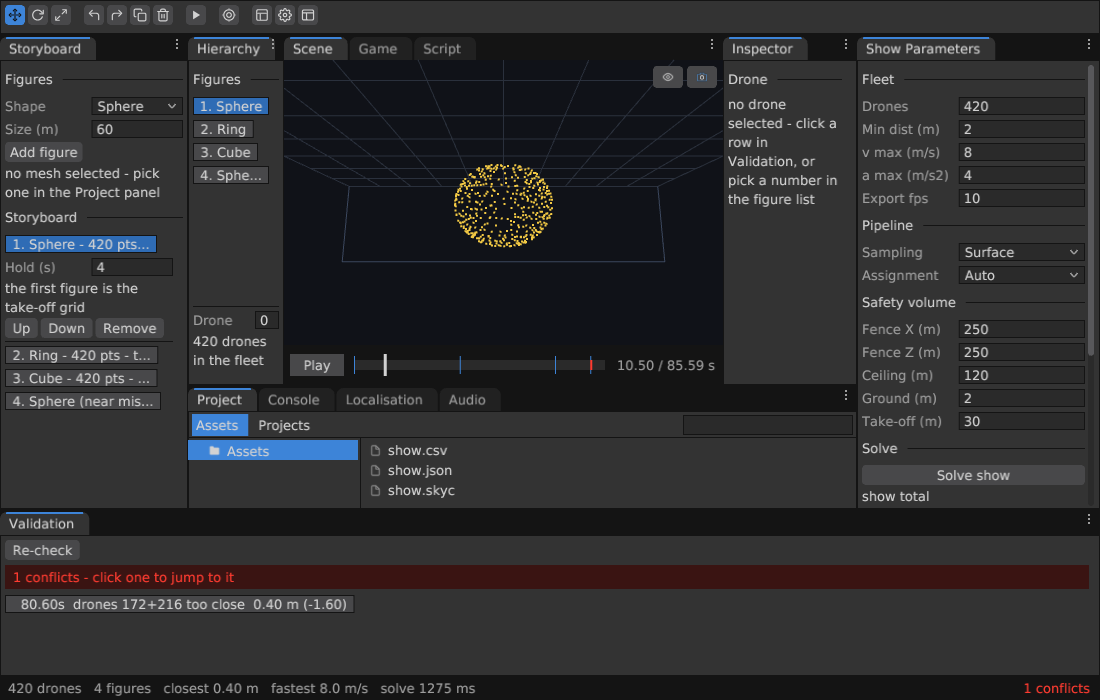
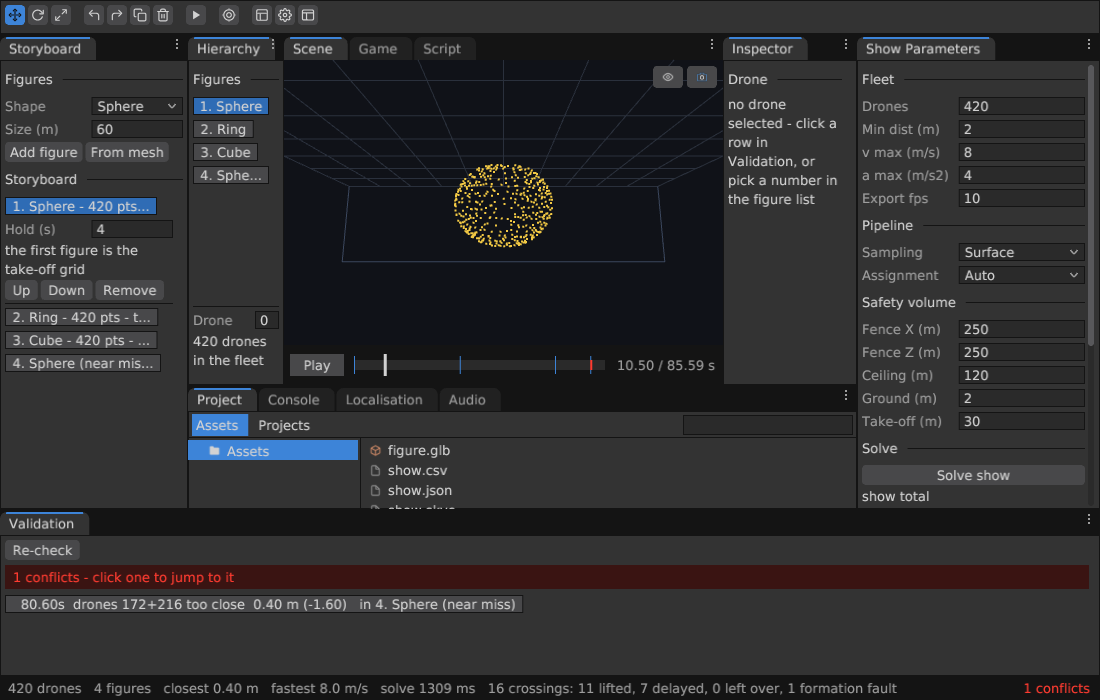
gauntlet: Runde 2 — Score 79/100

diff --git a/tools/droneshow_shot.cpp b/tools/droneshow_shot.cpp
@@ -4,7 +4,13 @@
 // tools/editor_shot.cpp, and it exists for the same reason: a panel that is
 // green in a test and unreadable on screen is still broken.
 //
-//   DAI_SHADER_DIR=shaders ./build/droneshow_shot .gauntlet-shots [W] [H]
+//   DAI_SHADER_DIR=shaders ./build/droneshow_shot .gauntlet-shots [W] [H] [SET]
+//
+// SET names the picture set. Without a dash it is a PREFIX - `narrow-` writes
+// `narrow-03-viewport-conflict.png` - and with a leading dash it is a suffix,
+// which is how the first runs of this tool named their files. Either way the
+// 1600x900 run with no SET owns the plain names, so a reviewer opening
+// `03-viewport-conflict.png` always gets the default window size.
 //
 // The show it builds is a real one: three figures sampled off triangle soup
 // through the ordinary pipeline, solved, validated - plus one figure with a
@@ -21,11 +27,13 @@
 // window.
 
 #include "dai_editor_ui.h"
+#include "dai_gltf.h"
 #include "dai_project.h"
 #include "dai_render.h"
 #include "dai_show.h"
 #include "dai_show_ui.h"
 
+#include <algorithm>
 #include <cmath>
 #include <cstdio>
 #include <cstdlib>
@@ -130,8 +138,15 @@ int main(int argc, char **argv) {
     const uint32_t H = argc > 3 ? (uint32_t)atoi(argv[3]) : 900;
     // A tag in the file names, so the same tool can photograph the same show at
     // a second window size without overwriting the first run. Narrow is where
-    // labels collide, so the narrow run is the one worth keeping.
-    std::string tag = argc > 4 ? argv[4] : "";
+    // labels collide, so the narrow run is the one worth keeping. `narrow-`
+    // goes in front of the name, `-narrow` behind it; the empty set keeps the
+    // plain names.
+    std::string set = argc > 4 ? argv[4] : "";
+    const bool  set_is_suffix = !set.empty() && set[0] == '-';
+    auto shot_path = [&](const char *name) {
+        return set_is_suffix ? outdir + "/" + name + set + ".png"
+                             : outdir + "/" + set + name + ".png";
+    };
 
     // ---- the project ------------------------------------------------------
     // One of each kind, side by side: the droneshow the panels belong to, and
@@ -280,6 +295,93 @@ int main(int argc, char **argv) {
 
     dai_show_ui *show = dai_show_ui_create(sh);
 
+    // ---- the mesh the storyboard samples from -----------------------------
+    // A photograph of a storyboard saying "no mesh selected - pick one in the
+    // Project panel" documents a dead end, not a feature. So the tool does
+    // what an operator does: it imports a real mesh off disk into the project,
+    // where the Project panel below the viewport lists it, and hands the same
+    // triangle soup to the panels. "From selected mesh" is then a button that
+    // works in the state that was photographed.
+    std::vector<float>    mesh_pos;
+    std::vector<uint32_t> mesh_idx;
+    std::string           mesh_asset;                 // the name in the project
+    {
+        const char *src = "assets/test/blender_scene.glb";
+        std::vector<uint8_t> bytes;
+        if (FILE *f = std::fopen(src, "rb")) {
+            std::fseek(f, 0, SEEK_END);
+            long n = std::ftell(f);
+            std::fseek(f, 0, SEEK_SET);
+            if (n > 0) {
+                bytes.resize((size_t)n);
+                if (std::fread(bytes.data(), 1, bytes.size(), f) != bytes.size()) bytes.clear();
+            }
+            std::fclose(f);
+        }
+        dai_mesh_data md[16];
+        uint32_t np = bytes.empty() ? 0u
+                                    : dai_gltf_read_geometry(bytes.data(), bytes.size(), md, 16,
+                                                             err, sizeof(err));
+        uint32_t got = np < 16u ? np : 16u;
+        for (uint32_t p = 0; p < got; ++p) {
+            uint32_t base = (uint32_t)(mesh_pos.size() / 3);
+            for (uint32_t v = 0; v < md[p].vertex_count; ++v) {
+                mesh_pos.push_back(md[p].vertices[v].position.x);
+                mesh_pos.push_back(md[p].vertices[v].position.y);
+                mesh_pos.push_back(md[p].vertices[v].position.z);
+            }
+            for (uint32_t i = 0; i < md[p].index_count; ++i)
+                mesh_idx.push_back(base + md[p].indices[i]);
+        }
+        if (got) dai_gltf_free_geometry(md, got);
+
+        if (!mesh_pos.empty() && !mesh_idx.empty()) {
+            // Into the mesh's own unit box, so `scale` really is "mesh units
+            // to metres" and Size (m) in the panel means what it says whatever
+            // the modeller worked in.
+            float lo[3] = { mesh_pos[0], mesh_pos[1], mesh_pos[2] }, hi[3] = { lo[0], lo[1], lo[2] };
+            for (size_t v = 0; v + 2 < mesh_pos.size(); v += 3)
+                for (int k = 0; k < 3; ++k) {
+                    lo[k] = std::min(lo[k], mesh_pos[v + (size_t)k]);
+                    hi[k] = std::max(hi[k], mesh_pos[v + (size_t)k]);
+                }
+            float ext = std::max(hi[0] - lo[0], std::max(hi[1] - lo[1], hi[2] - lo[2]));
+            float inv = ext > 1e-6f ? 2.0f / ext : 1.0f;
+            for (size_t v = 0; v + 2 < mesh_pos.size(); v += 3)
+                for (int k = 0; k < 3; ++k)
+                    mesh_pos[v + (size_t)k] = (mesh_pos[v + (size_t)k] - 0.5f * (lo[k] + hi[k])) * inv;
+
+            // The import an operator would do: the file lands in the project's
+            // assets folder, which is what the Project panel reads.
+            char dst[640];
+            std::snprintf(dst, sizeof(dst), "%s/figure.glb", dai_project_asset_dir(proj));
+            if (FILE *o = std::fopen(dst, "wb")) {
+                std::fwrite(bytes.data(), 1, bytes.size(), o);
+                std::fclose(o);
+                mesh_asset = "figure.glb";
+                asset_names.push_back(mesh_asset);
+            }
+
+            dai_show_sample_desc md_desc;
+            std::memset(&md_desc, 0, sizeof(md_desc));
+            md_desc.positions      = mesh_pos.data();
+            md_desc.vertex_count   = (uint32_t)(mesh_pos.size() / 3);
+            md_desc.indices        = mesh_idx.data();
+            md_desc.index_count    = (uint32_t)mesh_idx.size();
+            md_desc.base_rgba      = 0xFFFFC080u;
+            md_desc.mode           = DAI_SHOW_SAMPLE_SURFACE;
+            md_desc.scale          = 0.0f;            // the panel's Size (m) decides
+            md_desc.centre         = dai_vec3{ 0.0f, s.takeoff_alt_m + 40.0f, 0.0f };
+            md_desc.view_dir       = dai_vec3{ 0.0f, 0.0f, 1.0f };
+            dai_show_ui_mesh(show, &md_desc,
+                             mesh_asset.empty() ? src : (std::string("assets/") + mesh_asset).c_str());
+            std::printf("mesh %-28s %u triangles -> selected in the storyboard\n",
+                        src, (uint32_t)(mesh_idx.size() / 3));
+        } else {
+            std::printf("mesh %s not readable (%s) - the storyboard stays without one\n", src, err);
+        }
+    }
+
     // ---- the editor around it --------------------------------------------
     dai_config cfg{};
     cfg.tick_hz = 60; cfg.max_bodies = 64; cfg.physics_threads = 1;
@@ -376,7 +478,7 @@ int main(int argc, char **argv) {
         // frame later. The picture wanted is the settled one.
         frame(mx, my, down);
         frame(mx, my, down);
-        std::string path = outdir + "/" + name + tag + ".png";
+        std::string path = shot_path(name);
         flush(path.c_str());
     };
 
@@ -403,24 +505,66 @@ int main(int argc, char **argv) {
     shot("03-viewport-conflict", (float)W * 0.5f, (float)H * 0.5f, 0);
 
     // ---- the panels on their own -----------------------------------------
-    // Same functions the dock calls, given the whole frame, so a reviewer can
-    // read the rows instead of squinting at a docked column.
-    auto panel_shot = [&](const char *name, void (*fn)(dai_show_ui *, dai_ui *, float, float, float, float)) {
+    // Same functions the dock calls, at the size the DOCK gives them, with the
+    // tab head above them - a column stays a column, a strip stays a strip.
+    // Blowing a 380 px panel up to the whole frame used to produce a picture
+    // that was nine tenths empty background with a button stretched across it,
+    // which says nothing about the panel a director actually sees.
+    const float TABH = 26.0f;
+    // One panel in its dock frame: the tab head, the accent line under the
+    // active tab and the border the dock draws, then the panel itself in the
+    // rectangle below. `focus` is the tab that is open; an unfocused frame is
+    // drawn dimmer, which is how the picture says which panel it is about.
+    auto tab_panel = [&](const char *title, float px, float py, float pw, float ph, int focus,
+                         void (*fn)(dai_show_ui *, dai_ui *, float, float, float, float)) {
+        const dai_ui_style *st = dai_ui_style_of(ui);
+        dai_ui_rect(ui, px, py, pw, TABH, st->chrome);
+        float tw = dai_ui_text_width(ui, title) + 24.0f;
+        dai_ui_rect(ui, px, py, tw, TABH, focus ? st->panel : st->button);
+        if (focus) dai_ui_rect(ui, px, py, tw, 2.0f, st->accent);
+        dai_ui_text(ui, px + 12.0f, py + (TABH - dai_ui_text_height(ui)) * 0.5f,
+                    title, focus ? st->text : st->text_dim);
+        dai_ui_rect(ui, px, py + TABH - 1.0f, pw, 1.0f, st->panel_border);
+        fn(show, ui, px, py + TABH, pw, ph - TABH);
+    };
+    // The panel that is being photographed, at the size the DOCK gives it -
+    // and the preview beside it, because the rest of the frame is a dock too.
+    // Blowing a 380 px column up to the whole window used to produce a picture
+    // that was nine tenths background with one button stretched across it,
+    // which says nothing about the panel a director actually uses.
+    const float M = 20.0f;                              // the frame's margin
+    const float COLW = std::min(380.0f, (float)W * 0.34f);
+    const float BOT  = 30.0f;                           // the status line
+    auto panel_shot = [&](const char *name, int which) {
         for (int pass = 0; pass < 2; ++pass) {
             dai_ui_input in{};
             in.mouse_x = -100; in.mouse_y = -100;
             dai_ui_begin(ui, (float)W, (float)H, &in);
-            fn(show, ui, 20.0f, 20.0f, (float)W - 40.0f, (float)H - 100.0f);
-            dai_show_ui_status(show, ui, 0.0f, (float)H - 30.0f, (float)W, 30.0f);
+            const dai_ui_style *st = dai_ui_style_of(ui);
+            dai_ui_rect(ui, 0.0f, 0.0f, (float)W, (float)H, st->chrome);
+            float ax = M, ay = M, aw = (float)W - 2.0f * M, ah = (float)H - M - BOT - 10.0f;
+            if (which == 0)
+                tab_panel("Storyboard", ax, ay, COLW, ah, 1, dai_show_ui_storyboard);
+            else if (which == 1)
+                tab_panel("Show Parameters", ax, ay, COLW, ah, 1, dai_show_ui_parameters);
+            if (which == 0 || which == 1)
+                tab_panel("Preview", ax + COLW + 8.0f, ay, aw - COLW - 8.0f, ah, 0,
+                          dai_show_ui_viewport);
+            else if (which == 2) {
+                float strip = std::min(320.0f, ah * 0.42f);
+                tab_panel("Preview", ax, ay, aw, ah - strip - 8.0f, 0, dai_show_ui_viewport);
+                tab_panel("Validation", ax, ay + ah - strip, aw, strip, 1, dai_show_ui_validation);
+            } else if (which == 3)
+                tab_panel("Preview", ax, ay, aw, ah, 1, dai_show_ui_viewport);
+            dai_show_ui_status(show, ui, 0.0f, (float)H - BOT, (float)W, BOT);
             dai_ui_end(ui);
         }
-        std::string path = outdir + "/" + name + tag + ".png";
-        flush(path.c_str());
+        flush(shot_path(name).c_str());
     };
-    panel_shot("04-storyboard", dai_show_ui_storyboard);
-    panel_shot("05-parameters", dai_show_ui_parameters);
-    panel_shot("06-validation", dai_show_ui_validation);
-    panel_shot("07-preview-full", dai_show_ui_viewport);
+    panel_shot("04-storyboard",   0);
+    panel_shot("05-parameters",   1);
+    panel_shot("06-validation",   2);
+    panel_shot("07-preview-full", 3);
 
     // 8  the click the validation panel promises: a row is pressed, the
     //    timeline jumps to it and the two drones go red in the preview. Done
@@ -443,7 +587,7 @@ int main(int argc, char **argv) {
             frame(rx, ry, 0);
             if (dai_show_ui_selected_conflict(show) >= 0) {
                 hit = 1;
-                std::string path = outdir + "/08-conflict-clicked" + tag + ".png";
+                std::string path = shot_path("08-conflict-clicked");
                 flush(path.c_str());
                 std::printf("clicked validation row at %.0f,%.0f -> conflict %d, t=%.2f, drone %u\n",
                             rx, ry, dai_show_ui_selected_conflict(show),

diff --git a/RUN.md b/RUN.md
@@ -60,6 +60,15 @@ above its tree and nine of its checks had been clicking one row too high. It is
 in the list now, at 72 checks, and it carries the proof that the translate gizmo
 lands on the object it moves.
 
+Two more suites live outside `run_tests.sh` and are honest about it:
+`tools/build_runtime.sh` builds the packer and the standalone runtime and runs
+`tests/test_vfs.cpp` on the way (`ok: 89 checks, 0 failures`, measured here),
+and `build_web.sh` is the emscripten path. What is in `tests/` but in NO build
+script - `test_anim.cpp`, `test_audio.cpp`, `test_drift.cpp`,
+`test_shadow_contact.cpp`, `probe_spherebox.cpp`, `probe_settings.cpp` - are
+older probes; five of them still compile, `probe_settings.cpp` does not. None of
+them is counted in the total above, and this line is here so nobody counts them.
+
 The drone show suite is worth running on its own, because it prints three things
 no other suite can - the flight proof, the determinism proof and the scaling
 table:
@@ -69,7 +78,7 @@ table:
 ./build/test_droneshow quick    # the same, without the 10,000 drone row (~8 s faster)
 ```
 
-It ends in `ok: 332 checks, 0 failures` (commit `6ea748e`), and on the way it
+It ends in `ok: 332 checks, 0 failures` (tree at `3f786a8`), and on the way it
 prints the audit of the show the screenshots are
 taken of, read back out of the exported `.skyc` and
 flown at 40 Hz between the exported frames:
@@ -95,27 +104,28 @@ machine:
 
 | when | commit | machine |
 |---|---|---|
-| 2026-08-14 | `6ea748e` | AMD EPYC 7571, 8 cores, 12 GB, Debian 12, g++ 12.2, `-O3`, and other builds running next to it |
+| 2026-08-14 | `3f786a8` | AMD EPYC 7571, 8 cores, 12 GB, Debian 12, g++ 12.2, `-O3`, and other builds running next to it |
 
 | drones | sample | assign | layer | profile | validate | plan MB | check MB | ticks | wall |
 |---:|---:|---:|---:|---:|---:|---:|---:|---:|---:|
-| 100 | 20.38 ms | 2.44 ms | 1.59 ms | 0.01 ms | 12.40 ms | 0.01 | 0.02 | 701 | 37 ms |
-| 1 000 | 112.49 ms | 521.94 ms | 15.52 ms | 0.08 ms | 192.22 ms | 0.14 | 0.21 | 946 | 842 ms |
-| 10 000 | 1 294.13 ms | 413.87 ms | 2 542.73 ms | 1.27 ms | 5 072.35 ms | 1.87 | 2.44 | 2 437 | 9 326 ms |
+| 100 | 18.38 ms | 2.31 ms | 1.40 ms | 0.01 ms | 12.05 ms | 0.01 | 0.02 | 701 | 34 ms |
+| 1 000 | 104.04 ms | 484.93 ms | 14.49 ms | 0.08 ms | 189.58 ms | 0.14 | 0.21 | 946 | 793 ms |
+| 10 000 | 1 288.96 ms | 270.74 ms | 2 419.42 ms | 1.55 ms | 4 784.70 ms | 1.87 | 2.44 | 2 437 | 8 767 ms |
 
 Read it with the tick column in hand: the fixture's figures grow with the fleet,
 so the 10,000 drone show is also longer than the 1,000 drone one, and part of
 the wall clock difference is show length rather than fleet size. The test
-therefore compares the two rows PER TICK - (9326/2437) / (842/946) = **4.30 x**
-for ten times the drones, at commit `6ea748e` - and fails the build above 15 x,
-or above 30 s of wall clock for the big row. A quadratic tick would put ten in
-that ratio on its own; a cubic assignment a hundred. The same table measured on
-an idle machine came out at 3.79 x (8243 ms for the big row instead of 9326);
+therefore compares the two rows PER TICK - (8767/2437) / (793/946) = **4.29 x**
+for ten times the drones, on the tree at `3f786a8` - and fails the build above
+15 x, or above 30 s of wall clock for the big row (`tests/test_droneshow.cpp`,
+the two CHECKs after the table). A quadratic tick would put ten in that ratio on
+its own; a cubic assignment a hundred. The same table measured on an idle
+machine came out at 3.79 x (8243 ms for the big row instead of 8767);
 the spread between those two numbers is three builds sharing eight cores, and it
 is the reason the bound is three times the measurement rather than a whisker
 above it.
 
-`assign` falling from 525 ms to 393 ms between the two big rows is not a typo:
+`assign` falling from 485 ms to 271 ms between the two big rows is not a typo:
 above 2,000 drones the solver switches from the exact Jonker-Volgenant to the
 clustered auction, and the storyboard says so in the panel.
 
@@ -173,7 +183,7 @@ The projects land in `build/shot_projects/`, the exports in that project's
 `assets/`. It prints what it photographed, including the conflict it clicked:
 
 ```
-solve 1 formation fault: drones 172 and 173 stand 0.40 m apart in 'Sphere (near miss)' - the floor is 2.00 m: assign 111.7 ms, layer 1233.8 ms, validate 83.5 ms, 1 conflicts
+solve 1 formation fault: drones 172 and 173 stand 0.40 m apart in 'Sphere (near miss)' - the floor is 2.00 m: assign 99.2 ms, layer 1119.4 ms, validate 77.9 ms, 1 conflicts
   conflict  0  t   80.60s  drones 172+216  kind 0  0.400 of 2.000 m
 mesh assets/test/blender_scene.glb 2004 triangles -> selected in the storyboard
 clicked validation row at 120,747 -> conflict 0, t=80.60, drone 172
